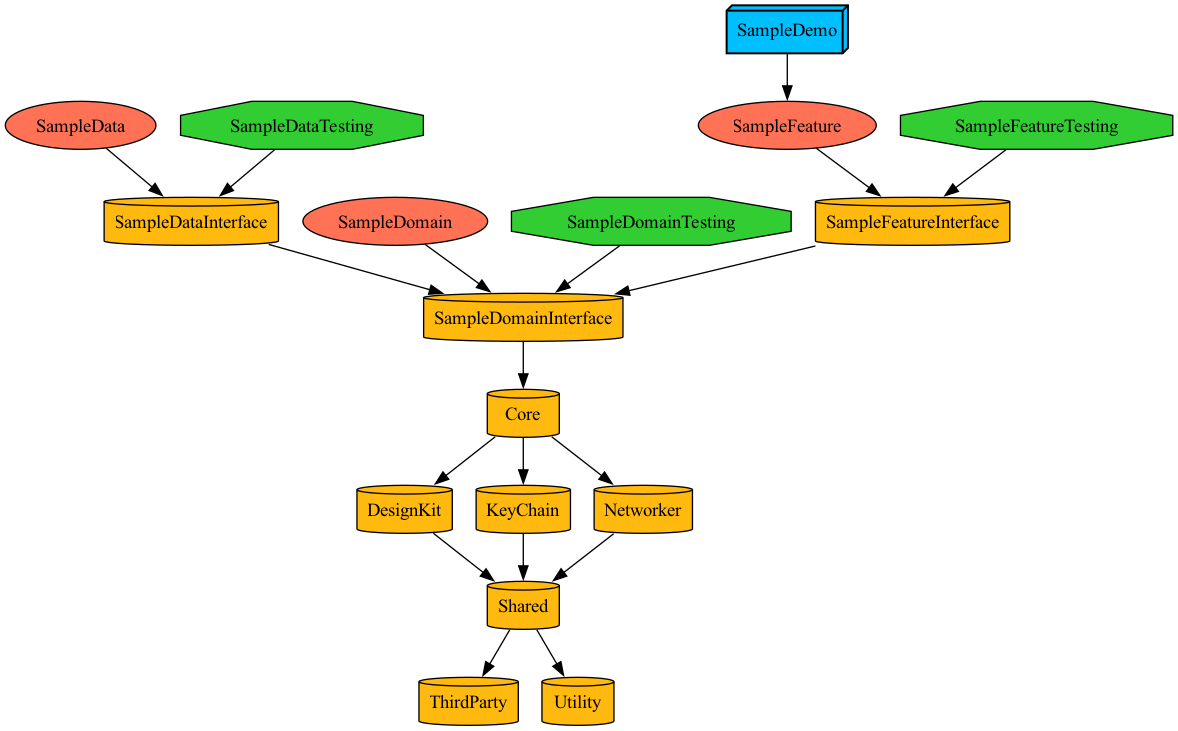
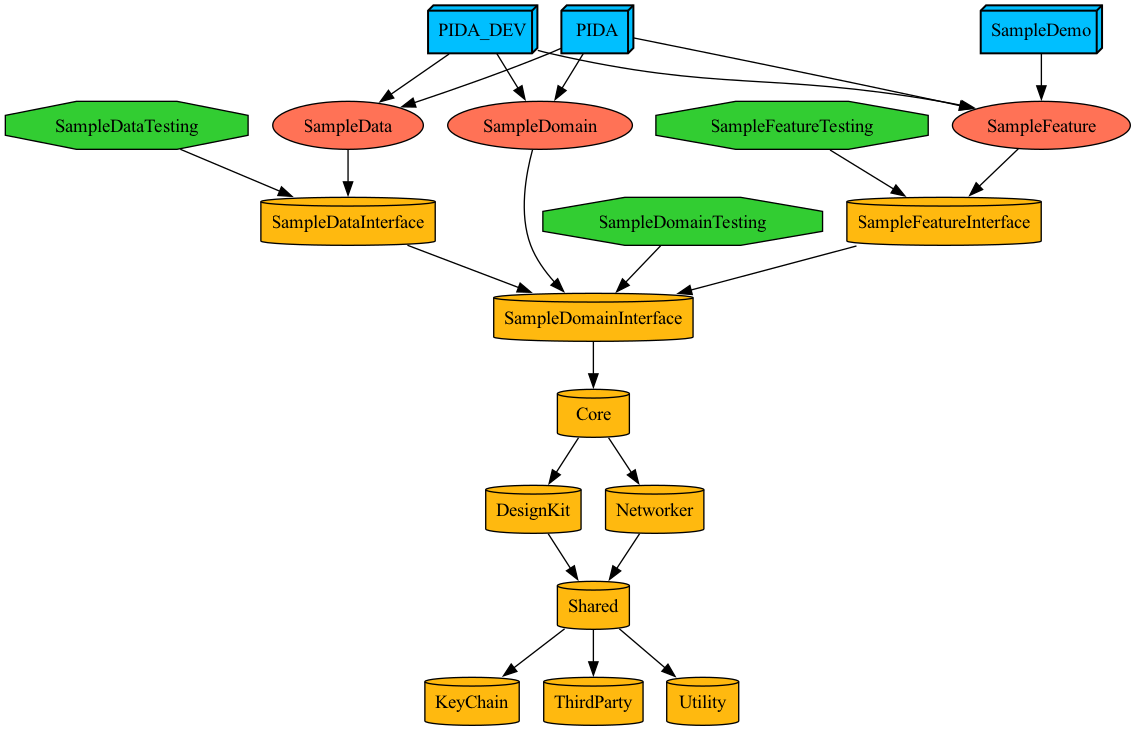
fix: #3 Project가 지정하는 group 범위 수정 및 자잘한 오류 수정

diff --git a/Tuist/ProjectDescriptionHelpers/Target+.swift b/Tuist/ProjectDescriptionHelpers/Target+.swift
@@ -10,8 +10,64 @@ import ProjectDescription
 
 public extension Target {
     static let organizationName = "com.pida.me.ios"
+  
+  enum SchemeType {
+    case development
+    case production
     
+    var entitlementsPath: String {
+      switch self {
+      case .development: "Config/Debug.entitlements"
+      case .production: "Config/Release.entitlements"
+      }
+    }
+    
+    var addedBundlePath: String {
+      switch self {
+      case .development: ".dev"
+      case .production: ""
+      }
+    }
+    
+    var configPath: String {
+      switch self {
+      case .development: "Config/Debug.xcconfig"
+      case .production: "Config/Release.xcconfig"
+      }
+    }
+    
+  }
+  
     // MARK: - App Target 생성
+    static func makeApp(
+      name: String,
+      env: SchemeType,
+      infoPlist: [String: Plist.Value] = [:],
+      script: [TargetScript] = [],
+      dependencies: [TargetDependency] = []
+    ) -> Target {
+      let config: Configuration = env == .development
+      ? .debug(name: .debug, xcconfig: .relativeToRoot(env.configPath))
+      : .release(name: .release, xcconfig: .relativeToRoot(env.configPath))
+      return target(
+        name: name,
+        destinations: .iOS,
+        product: .app,
+        bundleId: organizationName + env.addedBundlePath,
+        deploymentTargets: .iOS("18.0"),
+        infoPlist: .extendingDefault(with: infoPlist),
+        sources: ["./Sources/**"],
+        resources: ["./Resources/**"],
+        entitlements: .file(path: .relativeToRoot(env.entitlementsPath)),
+        scripts: script,
+        dependencies: dependencies,
+        settings: .settings(
+          configurations: [config]
+        )
+      )
+    }
+    
+    // MARK: - Demo App Target 생성
     static func makeDemoTargets(
         name: String,
         infoPlist: [String: Plist.Value] = [:],
@@ -36,6 +92,7 @@ public extension Target {
         dependencies: [TargetDependency] = []
     ) -> Target {
         let middle = layer.rawValue
+        let sourcesPath = layer == .feature ? "./\(name)\(middle)Testing" : "."
         return target(
             name: "\(name)\(middle)Interface",
             destinations: .iOS,
@@ -43,7 +100,7 @@ public extension Target {
             bundleId: "\(organizationName).\(layer.rawValue).\(name)\(middle)Interface",
             deploymentTargets: .iOS("18.0"),
             infoPlist: .default,
-            sources: ["./**"],
+            sources: ["\(sourcesPath)/Sources/**"],
             dependencies: dependencies
         )
     }
@@ -55,6 +112,7 @@ public extension Target {
         dependencies: [TargetDependency] = []
     ) -> Target {
         let middle = layer.rawValue
+        let sourcesPath = layer == .feature ? "./\(name)\(middle)Testing" : "."
         return target(
             name: "\(name)\(middle)",
             destinations: .iOS,
@@ -62,7 +120,7 @@ public extension Target {
             bundleId: "\(organizationName).\(layer.rawValue).\(name)\(middle)",
             deploymentTargets: .iOS("18.0"),
             infoPlist: .default,
-            sources: ["./**"],
+            sources: ["\(sourcesPath)/Sources/**"],
             dependencies: dependencies
         )
     }
@@ -74,6 +132,7 @@ public extension Target {
         dependencies: [TargetDependency] = []
     ) -> Target {
         let middle = layer.rawValue
+        let sourcesPath = layer == .feature ? "./\(name)\(middle)Testing" : "."
         return target(
             name: "\(name)\(middle)Testing",
             destinations: .iOS,
@@ -81,7 +140,7 @@ public extension Target {
             bundleId: "\(organizationName).\(layer.rawValue).\(name)\(middle)Testing",
             deploymentTargets: .iOS("18.0"),
             infoPlist: .default,
-            sources: ["./**"],
+            sources: ["\(sourcesPath)/Sources/**"],
             dependencies: dependencies
         )
     }
@@ -98,7 +157,7 @@ public extension Target {
             bundleId: "\(organizationName).\(name)", // com.yongin.pida.Network
             deploymentTargets: .iOS("18.0"),
             infoPlist: .default,
-            sources: ["./**"],
+            sources: ["./Sources/**"],
             dependencies: dependencies
         )
     }

diff --git a/Tuist/ProjectDescriptionHelpers/Project+.swift b/Tuist/ProjectDescriptionHelpers/Project+.swift
@@ -167,5 +167,42 @@ public extension Project {
             ]
         )
     }
-    
+  
+  static func makePIDA(
+    infoPlist: [String: Plist.Value] = [:],
+    dependencies: [TargetDependency] = []
+  ) -> Project {
+    return .init(
+      name: "PIDA",
+      organizationName: organizationName,
+      options: .options(
+        automaticSchemesOptions: .disabled,
+        defaultKnownRegions: ["ko"],
+        developmentRegion: "ko",
+        textSettings: .textSettings(
+          indentWidth: 2,
+          tabWidth: 2,
+          wrapsLines: true
+        )
+      ),
+      settings: .settings(configurations: [
+        .debug(name: "Debug", xcconfig: .relativeToRoot("Config/Debug.xcconfig")),
+        .release(name: "Release", xcconfig: .relativeToRoot("Config/Release.xcconfig")),
+      ]),
+      targets: [
+        .makeApp(
+          name: "PIDA",
+          env: .production,
+          infoPlist: infoPlist,
+          dependencies: dependencies
+        ),
+        .makeApp(
+          name: "PIDA_DEV",
+          env: .development,
+          infoPlist: infoPlist,
+          dependencies: dependencies
+        )
+      ]
+    )
+  }
 }

diff --git a/Projects/PIDA/Project.swift b/Projects/PIDA/Project.swift
@@ -1,0 +1,28 @@
+//
+//  Project.swift
+//  CoreManifests
+//
+//  Created by 조용인 on 3/13/25.
+//
+
+import ProjectDescription
+import ProjectDescriptionHelpers
+
+let project = Project.makePIDA(
+  infoPlist: [
+    "CFBundleDevelopmentRegion": "ko_KR",
+    "CFBundleShortVersionString": "0.9",
+    "CFBundleVersion": "1",
+    "CFBundleIconName": "AppIcon",
+    "UILaunchStoryboardName": "LaunchScreen",
+    "UIApplicationSceneManifest": [
+      "UIApplicationSupportsMultipleScenes": false,
+      "UISceneConfigurations": []
+    ]
+  ],
+  dependencies: [
+    .Features.Sample,
+    .Data.Sample.Implement,
+    .Domain.Sample.Implement
+  ]
+)

diff --git a/Tuist/Templates/Feature/Feature.swift b/Tuist/Templates/Feature/Feature.swift
@@ -27,27 +27,27 @@ let featureTemplate = Template(
         ),
         // Feature의 Interface 폴더 및 파일 생성
         .file(
-            path: "Projects/Features/\(name)/\(name)FeatureInterface/\(name)FeatureInterface.swift",
+            path: "Projects/Features/\(name)/\(name)FeatureInterface/Sources/\(name)FeatureInterface.swift",
             templatePath: "feature_interface.stencil"
         ),
         // Feature의 Implement 폴더 및 파일 생성
         .file(
-            path: "Projects/Features/\(name)/\(name)Feature/\(name)Feature.swift",
+            path: "Projects/Features/\(name)/\(name)Feature/Sources/\(name)Feature.swift",
             templatePath: "feature_implement.stencil"
         ),
         // Feature의 Reducer 파일 (TCA)
         .file(
-            path: "Projects/Features/\(name)/\(name)Feature/\(name)Reducer.swift",
+            path: "Projects/Features/\(name)/\(name)Feature/Sources/\(name)Reducer.swift",
             templatePath: "feature_reducer.stencil"
         ),
         // Feature의 SwiftUI View 파일
         .file(
-            path: "Projects/Features/\(name)/\(name)Feature/\(name)View.swift",
+            path: "Projects/Features/\(name)/\(name)Feature/Sources/\(name)View.swift",
             templatePath: "feature_view.stencil"
         ),
         // Feature의 Unit Test 폴더 및 파일 생성
         .file(
-            path: "Projects/Features/\(name)/\(name)Testing/\(name)UnitTests.swift",
+            path: "Projects/Features/\(name)/\(name)FeatureTesting/Sources/\(name)UnitTests.swift",
             templatePath: "feature_tests.stencil"
         ),
         // Feature의 Demo (예제) 파일 생성

diff --git a/Tuist/ProjectDescriptionHelpers/TargetDependency+.swift b/Tuist/ProjectDescriptionHelpers/TargetDependency+.swift
@@ -12,6 +12,7 @@ public enum Layer: String {
     case domain = "Domain"
     case data = "Data"
     case feature = "Feature"
+    case app = "PIDA"
 }
 
 public enum Feature: String {
@@ -32,12 +33,12 @@ public enum InternalTarget: String {
     
     public var path: String {
         switch self {
-        case .keyChain:
-            return "./Projects/Core/KeyChain"
         case .network:
             return "./Projects/Core/Networker"
         case .designKit:
             return "./Projects/Core/DesignKit"
+        case .keyChain:
+            return "./Projects/Shared/KeyChain"
         case .utility:
             return "./Projects/Shared/Utility"
         case .thirdParty:
@@ -74,8 +75,8 @@ extension PIDADependency {
     public static func projectWithFeature(feature: Feature) -> TargetDependency {
         let featureName = feature.rawValue
         return .project(
-            target: feature.rawValue,
-            path: .relativeToRoot("./Features/\(featureName)")
+            target: feature.rawValue + "Feature",
+            path: .relativeToRoot("./Projects/Features/\(featureName)")
         )
     }
     

diff --git a/Tuist/Templates/Domain/Domain.swift b/Tuist/Templates/Domain/Domain.swift
@@ -26,15 +26,15 @@ let domainTemplate = Template(
             templatePath: "domain_interface_project.stencil"
         ),
         .file(
-            path: "Projects/Domain/\(name)DomainInterface/\(name)UseCase.swift",
+            path: "Projects/Domain/\(name)DomainInterface/Sources/\(name)UseCase.swift",
             templatePath: "domain_usecase.stencil"
         ),
         .file(
-            path: "Projects/Domain/\(name)DomainInterface/\(name)Repository.swift",
+            path: "Projects/Domain/\(name)DomainInterface/Sources/\(name)Repository.swift",
             templatePath: "domain_repository_interface.stencil"
         ),
         .file(
-            path: "Projects/Domain/\(name)DomainTesting/\(name)UseCaseTests.swift",
+            path: "Projects/Domain/\(name)DomainTesting/Sources/\(name)UseCaseTests.swift",
             templatePath: "domain_usecase_tests.stencil"
         ),
         // Domain Implement 프로젝트 생성
@@ -43,7 +43,7 @@ let domainTemplate = Template(
             templatePath: "domain_implement_project.stencil"
         ),
         .file(
-            path: "Projects/Domain/\(name)Domain/\(name)UseCaseImpl.swift",
+            path: "Projects/Domain/\(name)Domain/Sources/\(name)UseCaseImpl.swift",
             templatePath: "domain_usecase_implement.stencil"
         )
     ]

diff --git a/Tuist/Templates/Data/Data.swift b/Tuist/Templates/Data/Data.swift
@@ -26,7 +26,7 @@ let dataTemplate = Template(
             templatePath: "data_implement_project.stencil"
         ),
         .file(
-            path: "Projects/Data/\(name)Data/\(name)RepositoryImpl.swift",
+            path: "Projects/Data/\(name)Data/Sources/\(name)RepositoryImpl.swift",
             templatePath: "data_repository_implement.stencil"
         ),
         // Data Interface 프로젝트 생성
@@ -35,11 +35,11 @@ let dataTemplate = Template(
             templatePath: "data_interface_project.stencil"
         ),
         .file(
-            path: "Projects/Data/\(name)DataInterface/\(name)DTO.swift",
+            path: "Projects/Data/\(name)DataInterface/Sources/\(name)DTO.swift",
             templatePath: "data_dto.stencil"
         ),
         .file(
-            path: "Projects/Data/\(name)DataTesting/\(name)RepositoryTests.swift",
+            path: "Projects/Data/\(name)DataTesting/Sources/\(name)RepositoryTests.swift",
             templatePath: "data_tests.stencil"
         )
     ]

diff --git a/Workspace.swift b/Workspace.swift
@@ -15,9 +15,7 @@ let workspace = Workspace(
   schemes: [
     .scheme(
       name: "Debug-PIDA",
-      buildAction: .buildAction(
-        targets: [.project(path: "./Projects/Features/Sample", target: "Debug-PIDA")]
-      ),
+      buildAction: .buildAction(targets: [.project(path: "./Projects/PIDA", target: "PIDA_DEV")]),
       runAction: .runAction(configuration: .debug),
       archiveAction: .archiveAction(configuration: .debug),
       profileAction: .profileAction(configuration: .debug),
@@ -25,7 +23,7 @@ let workspace = Workspace(
     ),
     .scheme(
       name: "PROD-PIDA",
-      buildAction: .buildAction(targets: [.project(path: "./Projects/Features/Sample", target: "PIDA")]),
+      buildAction: .buildAction(targets: [.project(path: "./Projects/PIDA", target: "PIDA")]),
       runAction: .runAction(configuration: .release),
       archiveAction: .archiveAction(configuration: .release),
       profileAction: .profileAction(configuration: .release),

diff --git a/Projects/Core/DesignKit/Project.swift b/Projects/Core/DesignKit/Project.swift
@@ -23,7 +23,7 @@ let project = Project(
             bundleId: "com.yongin.pida.DesignKit",
             deploymentTargets: .iOS("18.0"),
             infoPlist: .default,
-            sources: ["./**"],
+            sources: ["Sources/**"],
             dependencies: [
                 .InternalDependency.Shared
             ]

diff --git a/Projects/Core/Networker/Project.swift b/Projects/Core/Networker/Project.swift
@@ -23,7 +23,7 @@ let project = Project(
             bundleId: "com.yongin.pida.Networker",
             deploymentTargets: .iOS("18.0"),
             infoPlist: .default,
-            sources: ["./**"],
+            sources: ["Sources/**"],
             dependencies: [
                 .InternalDependency.Shared
             ]

diff --git a/Projects/Shared/Utility/Project.swift b/Projects/Shared/Utility/Project.swift
@@ -23,7 +23,7 @@ let project = Project(
             bundleId: "com.yongin.pida.Utility", // com.yongin.pida.Network
             deploymentTargets: .iOS("18.0"),
             infoPlist: .default,
-            sources: ["./**"],
+            sources: ["Sources/**"],
             dependencies: []
         )
     ]

diff --git a/Tuist/Package.swift b/Tuist/Package.swift
@@ -9,6 +9,6 @@ import PackageDescription
 let package = Package(
     name: "PIDA_iOS",
     dependencies: [
-        .package(url: "https://docs.tuist.io/documentation/tuist/dependencies", exact: "1.18.0")
+        .package(url: "https://github.com/pointfreeco/swift-composable-architecture.git", exact: "1.18.0")
     ]
 )